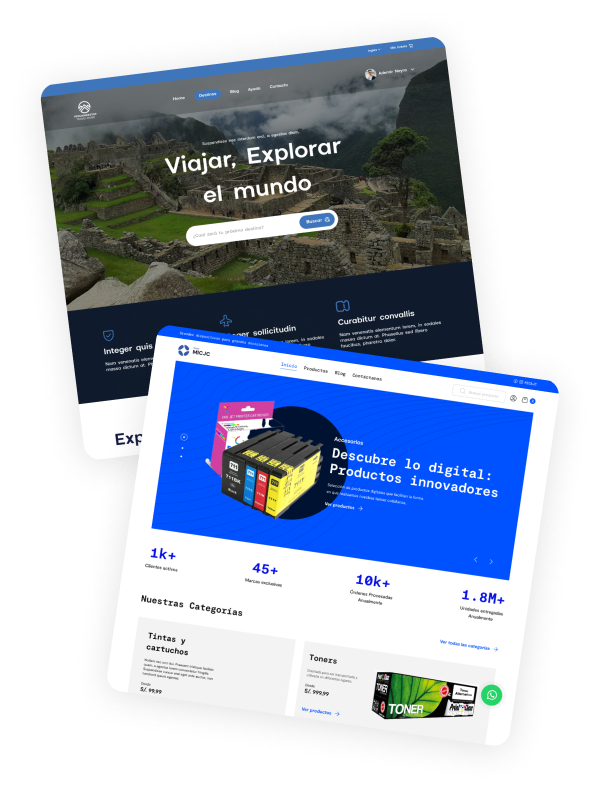
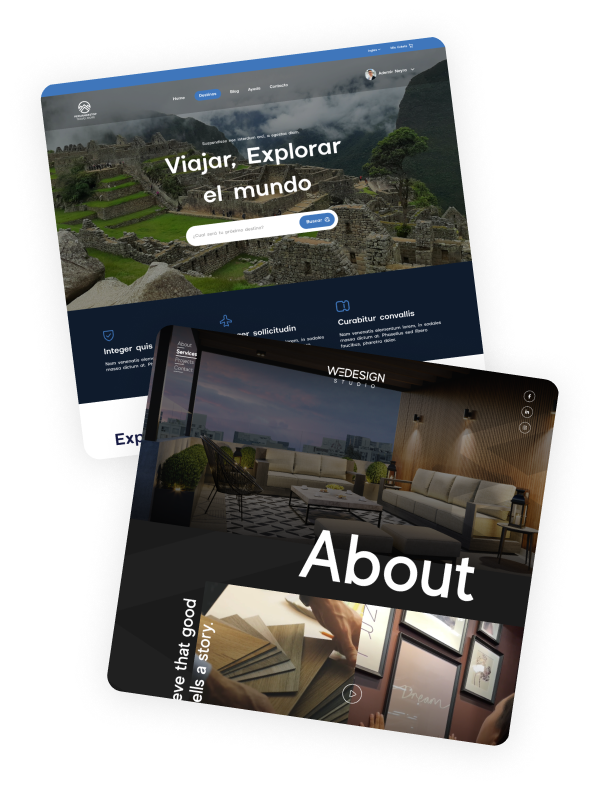
final

diff --git a/resources/views/Landing/Landingmundowebfinal.blade.php b/resources/views/Landing/Landingmundowebfinal.blade.php
@@ -359,7 +359,7 @@
                                     </div>
                                 </div>
 
-                                <input type="hidden" name="source" id="source" value="Website">
+                                <input type="hidden" name="source" id="source" value="Landing_website">
                                 <input type="hidden" name="origin" id="llegade">
                                 <input type="hidden" name="client_width" id="anchodispositivo">
                                 <input type="hidden" name="client_height" id="largodispositivo">
@@ -429,9 +429,9 @@
 
                         <div
                             class="flex justify-center items-center md:hover:scale-110 md:duration-300 border-black border-[10px] rounded-xl">
-                            <img src="{{ asset('images/img/imgMundoWeb/MockUpHidromec.png') }}" alt="hpi"
+                            <img src="{{ asset('images/img/imgMundoWeb/WedesignMk.png') }}" alt="hpi"
                                 class="w-full h-full"
-                                onclick="openModal('{{ asset('images/img/imgMundoWeb/Hidromec.png') }}')">
+                                onclick="openModal('{{ asset('images/img/imgMundoWeb/WeDesing.png') }}')">
                         </div>
 
                         <div
